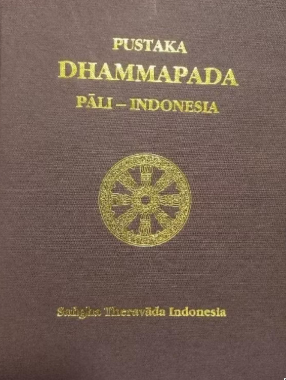
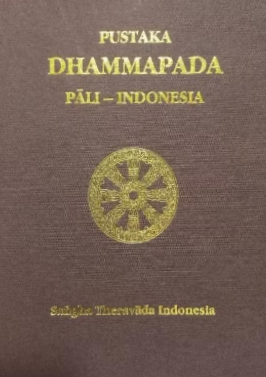
small change

diff --git a/public/id/index.html b/public/id/index.html
@@ -61,8 +61,14 @@ d.setAttribute('data-theme',t);d.setAttribute('data-ground',g);d.style.colorSche
   <div class="masthead__side">
     
 <div class="typer" data-nuno-typer>
-  <p class="typer__ghost" aria-hidden="true">setiap penilaian di sini bersifat pribadi</p>
-  <p class="typer__line">setiap penilaian di sini <span class="is-accent">bersifat pribadi</span></p><script type="application/json" data-nuno-quotes>[{"accent":"bersifat pribadi","pre":"setiap penilaian di sini "}]</script>
+  <p class="typer__ghost" aria-hidden="true">setiap penilaian di sini 
+bersifat pribadi</p>
+  <p class="typer__ghost" aria-hidden="true">ubah bahasa situs 
+dari navbar</p>
+  <p class="typer__ghost" aria-hidden="true">gunakan fitur pencarian untuk 
+menemukan sesuatu spesifik</p>
+  <p class="typer__line">setiap penilaian di sini 
+<span class="is-accent">bersifat pribadi</span></p><script type="application/json" data-nuno-quotes>[{"accent":"bersifat pribadi","pre":"setiap penilaian di sini \n"},{"accent":"dari navbar","pre":"ubah bahasa situs \n"},{"accent":"menemukan sesuatu spesifik","pre":"gunakan fitur pencarian untuk \n"}]</script>
 </div>
       <span class="masthead__tagline">Ringkasan singkat tentang situs ini</span>
   </div>

diff --git a/public/en/index.html b/public/en/index.html
@@ -61,8 +61,14 @@ d.setAttribute('data-theme',t);d.setAttribute('data-ground',g);d.style.colorSche
   <div class="masthead__side">
     
 <div class="typer" data-nuno-typer>
-  <p class="typer__ghost" aria-hidden="true">every rating here is personal!</p>
-  <p class="typer__line">every rating here <span class="is-accent">is personal!</span></p><script type="application/json" data-nuno-quotes>[{"accent":"is personal!","pre":"every rating here "}]</script>
+  <p class="typer__ghost" aria-hidden="true">every rating here 
+is personal</p>
+  <p class="typer__ghost" aria-hidden="true">you can change the language 
+from the navbar</p>
+  <p class="typer__ghost" aria-hidden="true">use search if you looking 
+for something spesific</p>
+  <p class="typer__line">every rating here 
+<span class="is-accent">is personal</span></p><script type="application/json" data-nuno-quotes>[{"accent":"is personal","pre":"every rating here \n"},{"accent":"from the navbar","pre":"you can change the language \n"},{"accent":"for something spesific","pre":"use search if you looking \n"}]</script>
 </div>
       <span class="masthead__tagline">A brief summary of this site</span>
   </div>

diff --git a/public/id/books/index.html b/public/id/books/index.html
@@ -105,7 +105,7 @@ d.setAttribute('data-theme',t);d.setAttribute('data-ground',g);d.style.colorSche
       </a>
       <a class="book-card" href="/id/books/dhammapada/">
         <span class="book-card__frame">
-            <img src="/images/covers/dhammapada_hu_5338368ea37a4064.webp" alt="Dhammapada — sampul" class="book-card__cover" width="286" height="380" decoding="async">
+            <img src="/images/covers/dhammapada_hu_856c966f863c9235.webp" alt="Dhammapada — sampul" class="book-card__cover" width="266" height="377" decoding="async">
 
         </span>
         <span class="book-card__title">Dhammapada</span><span class="book-card__foot">

diff --git a/public/en/books/index.html b/public/en/books/index.html
@@ -105,7 +105,7 @@ d.setAttribute('data-theme',t);d.setAttribute('data-ground',g);d.style.colorSche
       </a>
       <a class="book-card" href="/en/books/dhammapada/">
         <span class="book-card__frame">
-            <img src="/images/covers/dhammapada_hu_5338368ea37a4064.webp" alt="Dhammapada — cover" class="book-card__cover" width="286" height="380" decoding="async">
+            <img src="/images/covers/dhammapada_hu_856c966f863c9235.webp" alt="Dhammapada — cover" class="book-card__cover" width="266" height="377" decoding="async">
 
         </span>
         <span class="book-card__title">Dhammapada</span><span class="book-card__foot">

diff --git a/public/id/books/dhammapada/index.html b/public/id/books/dhammapada/index.html
@@ -65,7 +65,7 @@ d.setAttribute('data-theme',t);d.setAttribute('data-ground',g);d.style.colorSche
   </div>
 </header><section class="book__head">
   <div class="book__cover-col">
-      <img src="/images/covers/dhammapada_hu_5338368ea37a4064.webp" alt="Dhammapada — sampul" class="book__cover" width="286" height="380" decoding="async">
+      <img src="/images/covers/dhammapada_hu_856c966f863c9235.webp" alt="Dhammapada — sampul" class="book__cover" width="266" height="377" decoding="async">
 
   </div>
 

diff --git a/public/en/books/dhammapada/index.html b/public/en/books/dhammapada/index.html
@@ -65,7 +65,7 @@ d.setAttribute('data-theme',t);d.setAttribute('data-ground',g);d.style.colorSche
   </div>
 </header><section class="book__head">
   <div class="book__cover-col">
-      <img src="/images/covers/dhammapada_hu_5338368ea37a4064.webp" alt="Dhammapada — cover" class="book__cover" width="286" height="380" decoding="async">
+      <img src="/images/covers/dhammapada_hu_856c966f863c9235.webp" alt="Dhammapada — cover" class="book__cover" width="266" height="377" decoding="async">
 
   </div>
 

diff --git a/public/index.html b/public/index.html
@@ -1,9 +1,9 @@
 <!DOCTYPE html>
-<html lang="id-ID">
+<html lang="en-US">
 	<head>
-		<title>http://localhost:1313/id/</title>
-		<link rel="canonical" href="http://localhost:1313/id/">
+		<title>http://localhost:1313/en/</title>
+		<link rel="canonical" href="http://localhost:1313/en/">
 		<meta charset="utf-8">
-		<meta http-equiv="refresh" content="0; url=http://localhost:1313/id/">
+		<meta http-equiv="refresh" content="0; url=http://localhost:1313/en/">
 	</head>
 </html>

diff --git a/assets/css/nuno.css b/assets/css/nuno.css
@@ -206,7 +206,7 @@ a:hover { color: var(--accent); }
   align-self: stretch;
   gap: 24px;
 }
-.masthead__tagline { font-size: 14px; color: var(--muted); }
+.masthead__tagline { font-size: 14px; color: var(--muted);}
 
 /* Typed line. Every line is laid out invisibly in the same grid cell so the
    block height equals the tallest line and nothing ever shifts. */
